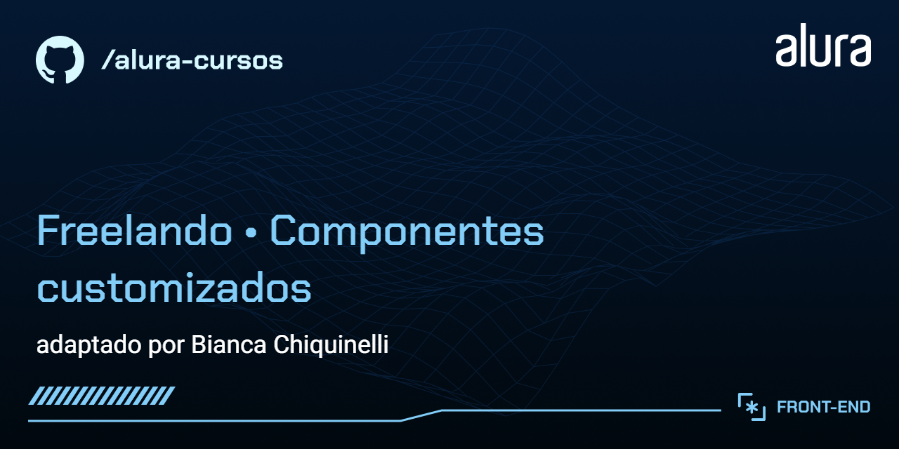
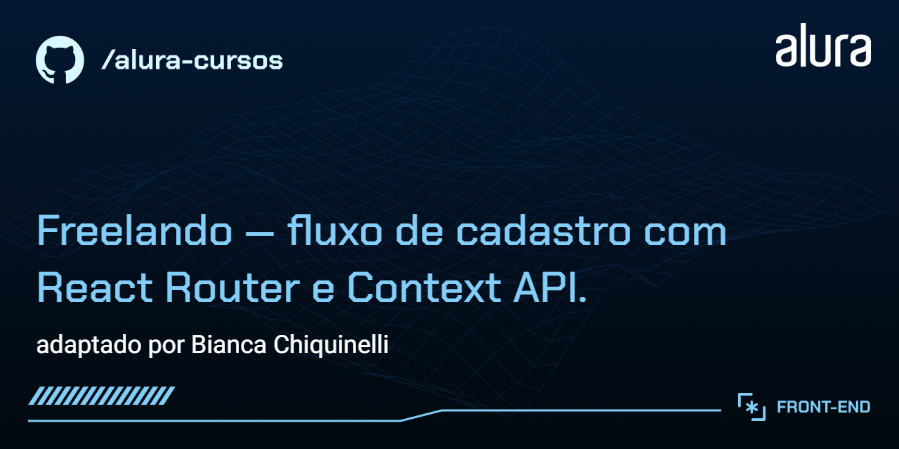
docs(readme): adapta readme de acordo com implementações do curso

Changed region(s): [[0.0311, 0.5924, 0.6541, 0.686], [0.2803, 0.4677, 0.8098, 0.5612]]

diff --git a/README.md b/README.md
@@ -1,13 +1,14 @@
 # Freelando
 
-![Thumbnail do projeto. O título é “Freelando • Componentes customizados” e o subtítulo é “adaptado por Bianca Chiquinelli”.](thumb.png)
+![Thumbnail do projeto. O título é “Freelando — fluxo de cadastro com React Router e Context API.” e o subtítulo é “adaptado por Bianca Chiquinelli”.](thumb.png)
 
-O Freelando é uma startup fictícia em formato de MVP desenvolvida com React. O projeto foi utilizado para aprofundar conceitos de componentização, gerenciamento de estado, estilização com Emotion e construção de interfaces reutilizáveis.
+O Freelando é uma aplicação fictícia desenvolvida com React. O projeto foi utilizado para explorar conceitos de componentização, gerenciamento de estado, roteamento de aplicações e construção de interfaces reutilizáveis.
 
 ## Tecnologias
 
-- React
+- React e React Router DOM
 - JavaScript
+- Context API
 - Emotion
 - React Grid System
 - Vite
@@ -16,45 +17,33 @@ O Freelando é uma startup fictícia em formato de MVP desenvolvida com React. O
 
 ## Principais implementações
 
-- Estruturação da interface com componentes reutilizáveis.
-- Criação de Design System utilizando ThemeProvider.
-- Centralização de cores, tipografia e espaçamentos.
-- Desenvolvimento de componentes estilizados com Emotion.
+- Estruturação da aplicação com React Router DOM, organizando o fluxo de navegação em múltiplas páginas.
+- Criação de layouts compartilhados para reutilização de estrutura entre diferentes rotas.
+- Implementação de um fluxo de cadastro multietapas. incluindo páginas de interesses, dados pessoais e conclusão.
+- Centralização do estado do formulário utilizando Context API, permitindo o compartilhamento de dados entre as etapas sem prop drilling.
+- Integração do provider ao fluxo de cadastro e implementação da lógica de submissão do formulário.
+- Estruturação da interface com componentes reutilizáveis e estilizados com Emotion.
+- Criação de um Design System utilizando ThemeProvider, centralizando cores, tipografia e espaçamentos.
 - Construção de layouts responsivos com React Grid System.
-- Implementação de formulário baseado em composição de componentes.
-- Gerenciamento de estado local para controle de interações da interface.
 
 ## 💡 Destaque técnico
 
-### Lista suspensa customizada
+### Fluxo de cadastro com React Router DOM e Context API
 
-Desenvolvimento de um componente de seleção sem dependência de bibliotecas externas, com suporte à navegação por teclado e controle de foco.
+Desenvolvimento de um fluxo de cadastro multietapas utilizando roteamento e gerenciamento global de estado, mantendo os dados sincronizados durante toda a navegação da aplicação.
 
-**Recursos implementados:**
+_Recursos implementados:_
 
-- Controle de abertura e fechamento através de estado local.
-- Navegação entre opções utilizando `ArrowUp` e `ArrowDown`.
-- Seleção de itens através da tecla `Enter`.
-- Fechamento do componente com `Escape` e `Tab`.
-- Controle de foco entre os itens da lista.
-- Atualização dinâmica da opção selecionada.
-- Feedback visual para foco e interação.
-- Estilização condicional baseada no estado do componente.
-
-**Conceitos aplicados:**
-
-- React Hooks (`useState`).
-- Functional Updates para atualização segura de estado.
-- Tratamento de eventos de teclado.
-- Renderização condicional.
-- Comunicação entre componentes via props.
-- Estilos dinâmicos com Emotion.
-- Práticas de acessibilidade voltadas para navegação por teclado.
+- Organização do cadastro em rotas independentes.
+- Compartilhamento de estado entre páginas por meio da Context API.
+- Providers integrados à estrutura de layouts da aplicação.
+- Navegação entre etapas com preservação dos dados preenchidos.
+- Validação e ajustes do fluxo de roteamento para garantir consistência na experiência do usuário.
+- Refatoração dos componentes de formulário para consumir o contexto global.
 
 ## Acesso ao projeto
 
-**Versão online:**
-https://freelando-two.vercel.app/
+**Versão online:** <https://freelando-two.vercel.app/>
 
 ### Executar localmente
 